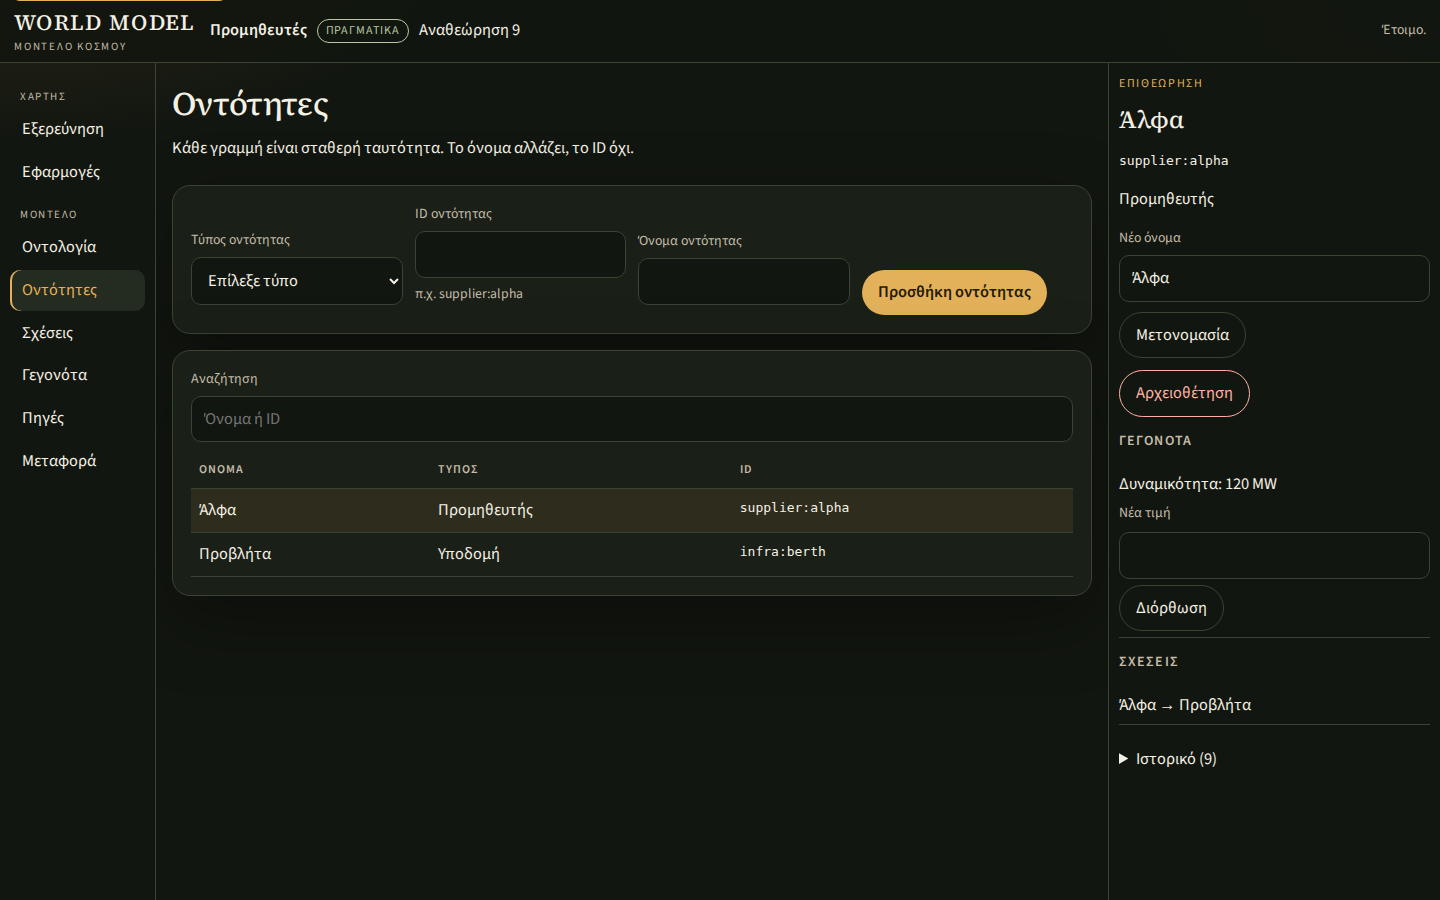
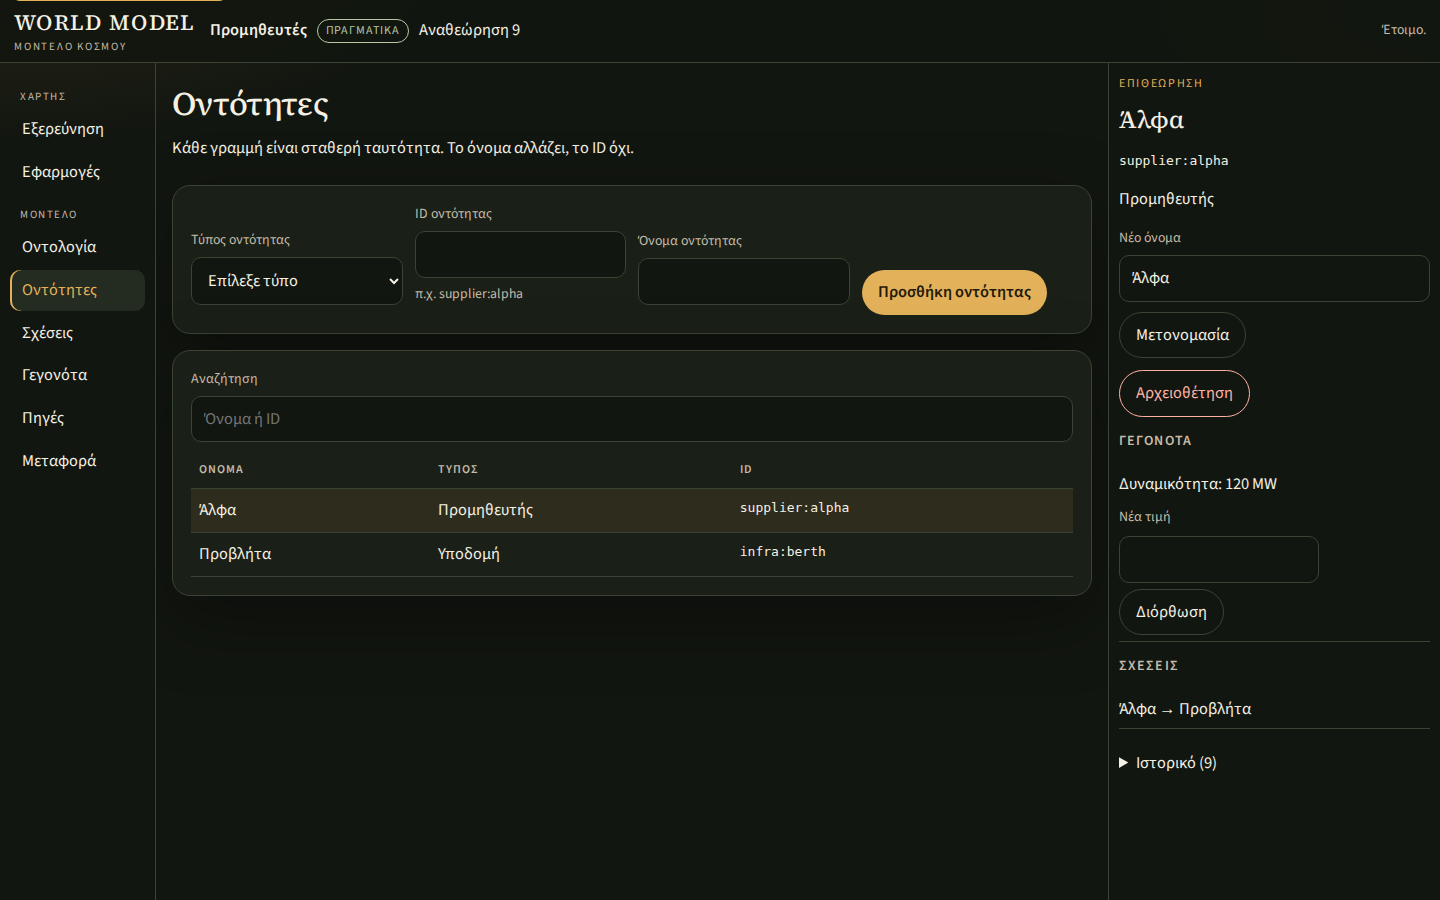
Separate definition names from their ids.
On the ontology list the stable id was sitting against the Greek label. Names and ids now sit at opposite ends of the row, and on a phone the inspector no longer covers the editor fields.

diff --git a/src/ui/style.css b/src/ui/style.css
@@ -169,6 +169,7 @@ tbody tr { cursor: pointer; }
 tbody tr[aria-selected="true"] { background: rgba(226, 177, 90, 0.1); }
 .plain-list, .workspace-list, .history ol { list-style: none; padding: 0; margin: 0 0 12px; }
 .plain-list li, .workspace-list li { padding: 6px 0; border-bottom: 1px solid var(--line); }
+.plain-list li { display: flex; flex-wrap: wrap; gap: 4px 14px; align-items: baseline; justify-content: space-between; }
 .linkish { background: transparent; border: 0; padding: 0; color: var(--ink); text-align: left; }
 .workspace-list button { width: 100%; text-align: left; background: transparent; border: 0; padding: 8px 0; display: flex; flex-direction: column; }
 .inspector h3 { font-size: 14px; letter-spacing: 0.08em; text-transform: uppercase; color: var(--muted); }
@@ -190,6 +191,8 @@ tbody tr[aria-selected="true"] { background: rgba(226, 177, 90, 0.1); }
     border-left: 0; border-top: 1px solid var(--line); background: rgba(18, 22, 16, 0.96);
   }
   .inspector.idle { max-height: 52px; overflow: hidden; }
+  .shell:not(:has(.atlas-stage)) { grid-template-rows: auto minmax(0, 1fr) minmax(112px, 30vh); }
+  .shell:not(:has(.atlas-stage)) .inspector { position: static; max-height: none; }
   .home-grid { grid-template-columns: 1fr; }
   .topbar { gap: 8px; }
   .workspace-meta strong, .revision-label, .wordmark small, .status { display: none; }

diff --git a/tests/browser/screens.spec.ts b/tests/browser/screens.spec.ts
@@ -1,0 +1,17 @@
+import { test } from '@playwright/test';
+
+test('editor screens stay reachable from the map shell', async ({ page }) => {
+  await page.goto('/');
+  await page.getByRole('button', { name: 'Φόρτωση συνθετικού DEMO' }).click();
+  for (const [name, file] of [
+    ['Οντολογία', 'px-ontology'],
+    ['Οντότητες', 'px-entities'],
+    ['Μεταφορά', 'px-transfer'],
+  ] as const) {
+    await page.getByRole('button', { name }).click();
+    await page.setViewportSize({ width: 1440, height: 900 });
+    await page.screenshot({ path: `docs/evidence/${file}-1440.png` });
+    await page.setViewportSize({ width: 390, height: 844 });
+    await page.screenshot({ path: `docs/evidence/${file}-390.png` });
+  }
+});

diff --git a/PROGRESS.md b/PROGRESS.md
@@ -3,6 +3,18 @@
 Νεότερο entry πρώτο. Οι εντολές παρακάτω εκτελούνται από το project root.
 Τρέχον στάδιο: εμπειρία προϊόντος στο `cursor/product-experience-864c`. Η ουρά N0–N7 μένει κλειστή στο `cursor/overnight-depth-864c`. Η υπόθεση Β μένει μερική.
 
+## 2026-11-09 — PX-4 — Οθόνες επεξεργασίας
+
+Agent/session: Cursor Grok 4.7 | Status: done με όρια | Branch: cursor/product-experience-864c
+
+Τα screenshots οντολογίας, οντοτήτων και μεταφοράς βγήκαν στα 1440 και 390 (`docs/evidence/px-ontology-*.png`, `px-entities-*.png`, `px-transfer-*.png`). Το id καθόταν κολλημένο στο όνομα (`Χώραtype:country`). Τώρα το όνομα και το id είναι στα δύο άκρα της γραμμής. Στο τηλέφωνο η επιθεώρηση των σελίδων φόρμας δεν είναι πια φύλλο που σκεπάζει το πεδίο· μένει κάτω από το στάδιο. Στον χάρτη μένει φύλλο.
+
+Όριο: οντολογία, οντότητες και μεταφορά είναι ακόμη σελίδες, όχι συρτάρια πάνω στον χάρτη. Το διάγραμμα στο 390 θέλει οριζόντια κύλιση για να φανεί το 2023.
+
+Επαλήθευση: `npx playwright test tests/browser/screens.spec.ts tests/browser/acceptance.spec.ts tests/browser/modules.spec.ts` — 5/5.
+
+Επόμενο βήμα: μην ανοίξεις τα πέντε αεροδρόμια χωρίς νέα παραπομπή. Μην αλλάξεις ορατότητα και μην κάνεις merge. Το PR είναι το #7, βάση `cursor/overnight-depth-864c`. Αν συνεχίσει οπτική δουλειά, οι φόρμες οντολογίας μπορούν να γίνουν συρτάρι χωρίς να χαθούν τα ονόματα των κουμπιών.
+
 ## 2026-11-09 — PX-3 — Γράφημα και διάγραμμα
 
 Agent/session: Cursor Grok 4.7 | Status: done με όρια | Branch: cursor/product-experience-864c

diff --git a/TASKS.md b/TASKS.md
@@ -9,7 +9,7 @@
 | PX-1 | Shell χάρτη, format αριθμών, επιθεώρηση, viewport | done | Cursor Grok 4.7 / cursor/product-experience-864c | Header πάνω, checkbox στο label, ελληνικό compact, χάρτης αρχική οθόνη. Ο κόσμος μένει κενός στις χώρες χωρίς fact. |
 | PX-2 | WDI για όλες τις χώρες με γεωμετρία | done | Cursor Grok 4.7 / cursor/product-experience-864c | 164 χώρες με ΑΕΠ 2022. 10 πολύγωνα χωρίς τιμή μένουν κενά. CC BY 4.0. |
 | PX-3 | Graph δίπλα στον πίνακα και διάγραμμα με άξονες που διαβάζονται | done | Cursor Grok 4.7 / cursor/product-experience-864c | Κύκλος δίπλα στον πίνακα. Γραμμή μόνο σε διαδοχικά έτη με τιμή. Στο 390 το 2023 θέλει οριζόντια κύλιση. |
-| PX-4 | Κρίση screenshots 1440/390 και δεύτερο πέρασμα | in_progress | Cursor Grok 4.7 / cursor/product-experience-864c | Ο χάρτης και το graph κρίθηκαν. Μένουν ontology, entities και transfer στα δύο πλάτη. |
+| PX-4 | Κρίση screenshots 1440/390 και δεύτερο πέρασμα | done | Cursor Grok 4.7 / cursor/product-experience-864c | Το id δεν κολλάει πια στο όνομα. Στο τηλέφωνο η επιθεώρηση των φορμών δεν σκεπάζει το πεδίο. Οι φόρμες μένουν σελίδες, όχι συρτάρια. |
 
 ## Προηγούμενη ανάθεση: πολύωρη συνέχεια
 
